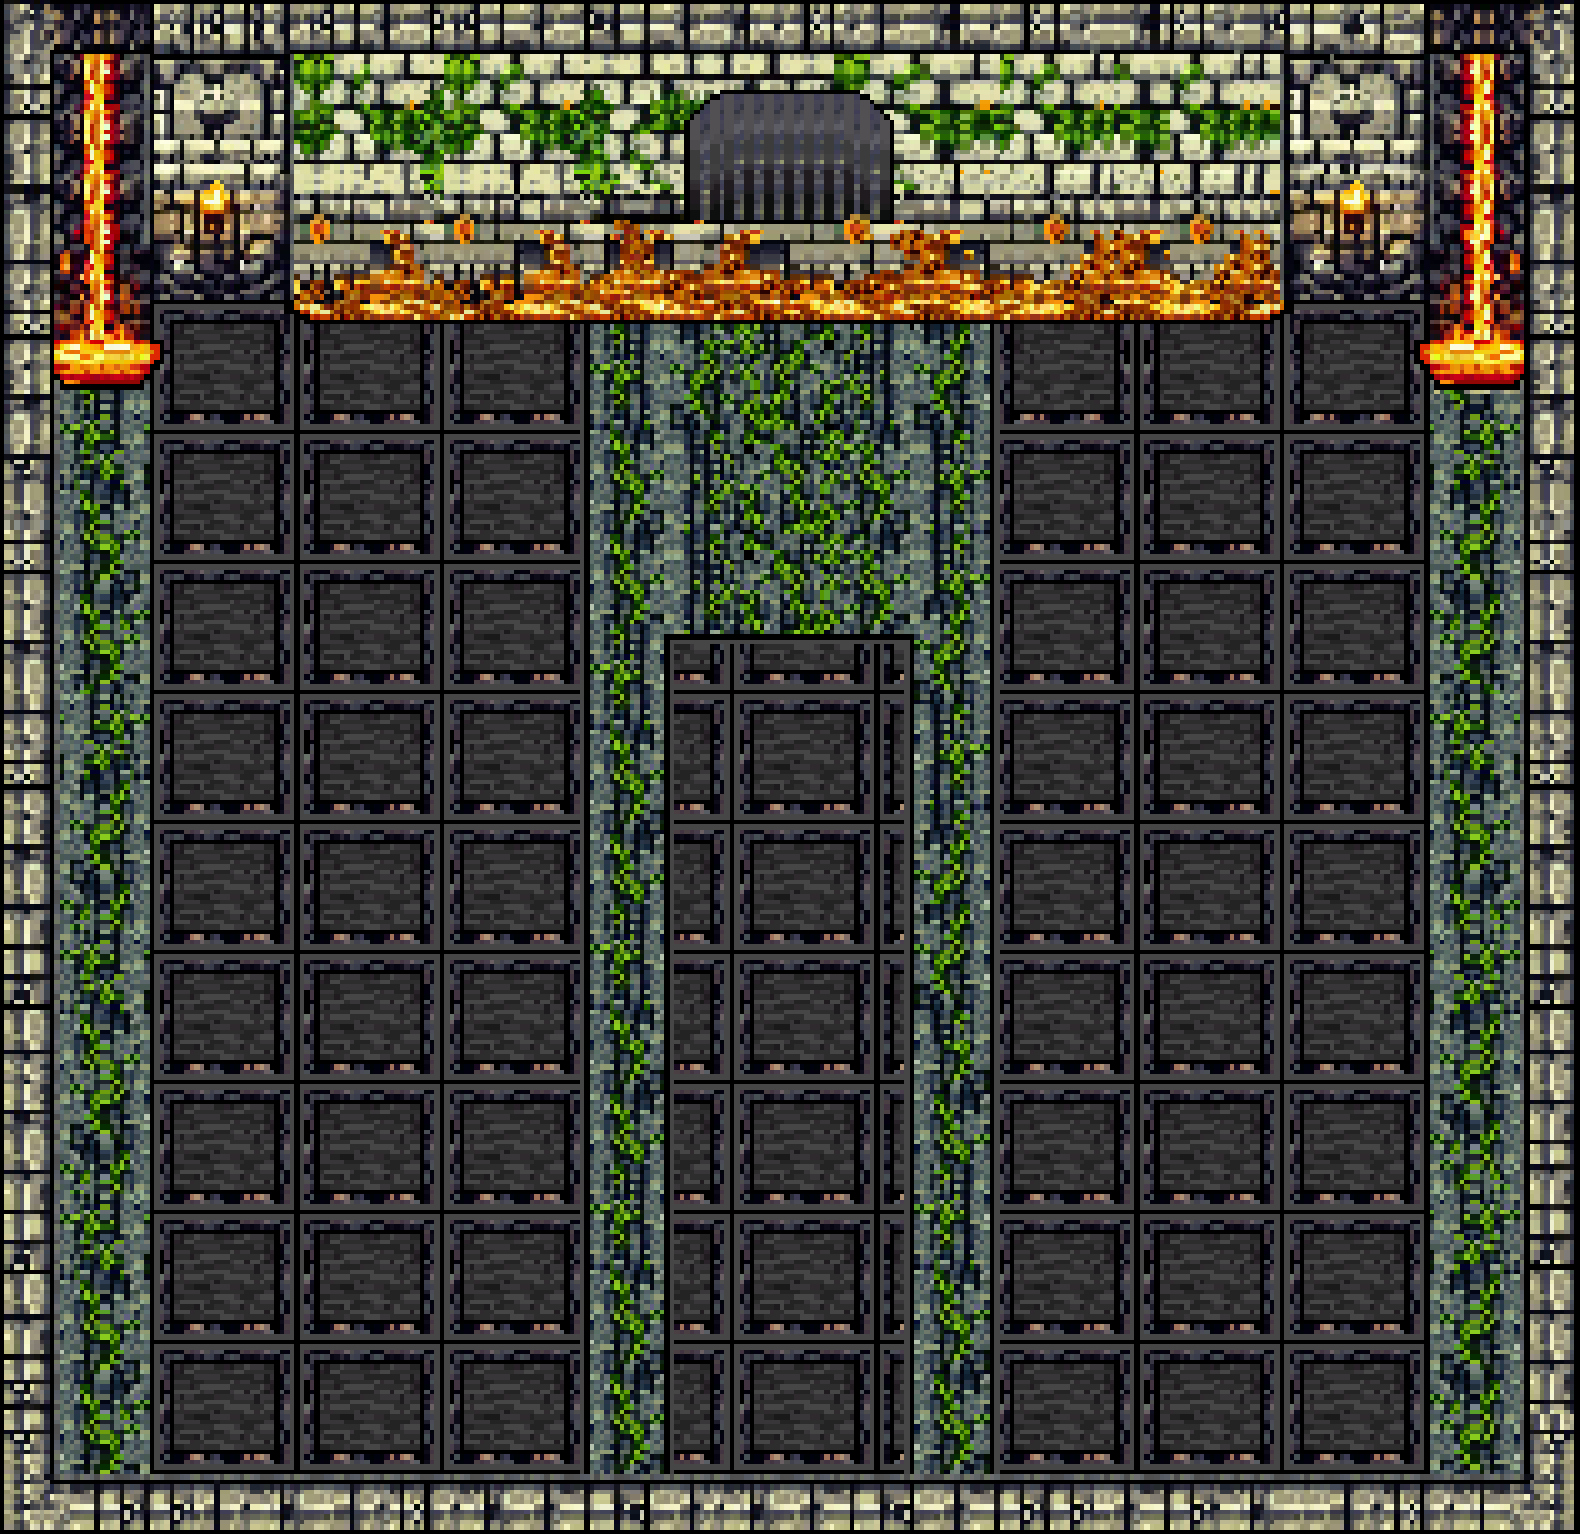
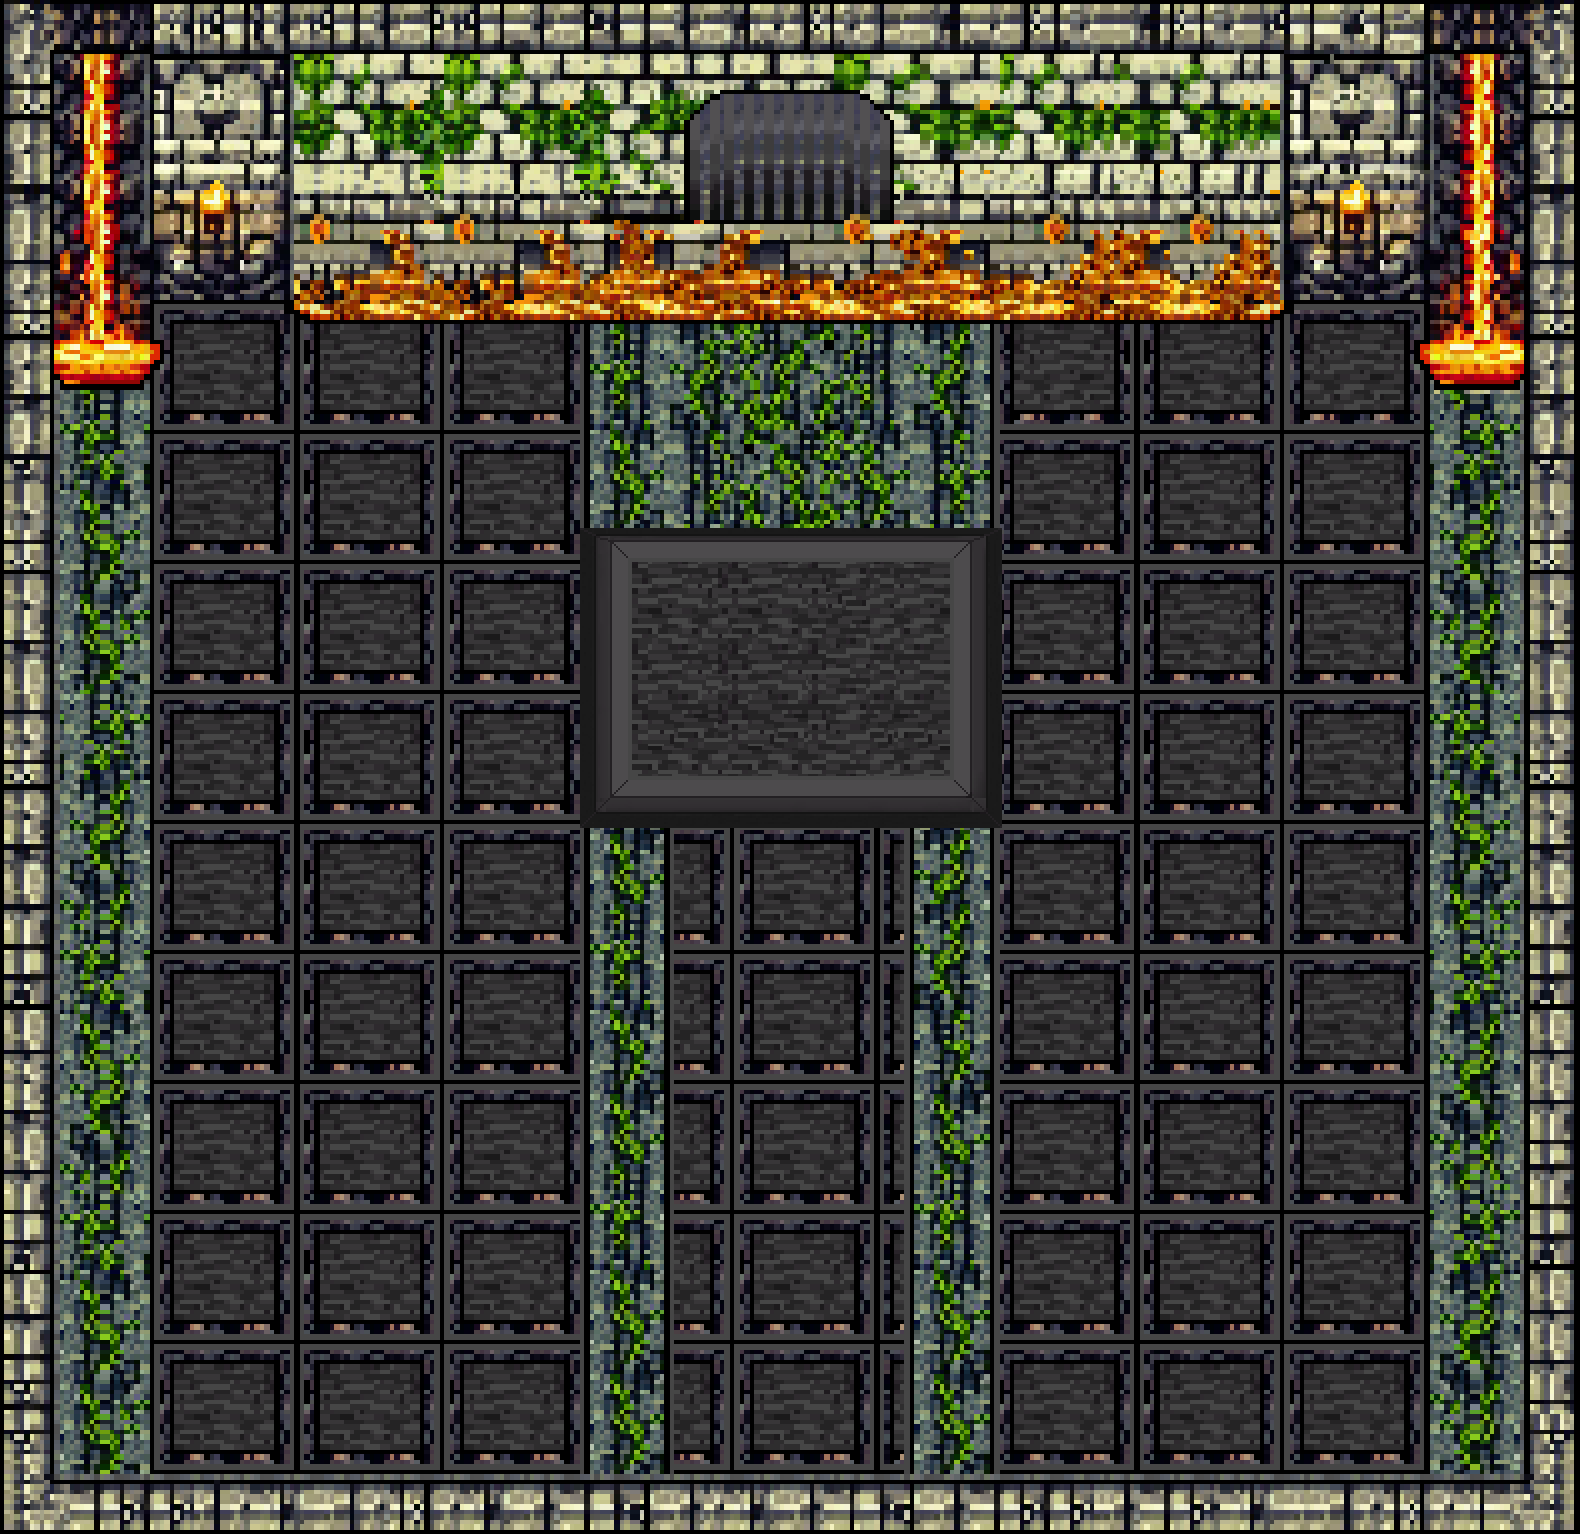
add mapPlataform

Changed region(s): [[0.3411, 0.337, 0.6513, 0.5515]]

diff --git a/State/States.cs b/State/States.cs
@@ -242,7 +242,7 @@ public class PlatformState : State
             var random = Random.Shared.Next(0, 3);
             platform = new("Platform", spawns[random].X, spawns[random].Y, 290, 260);
             if (GameEngine.Current.Player.X > Screen.PrimaryScreen.Bounds.Width / 2)
-                platform = new("Platform", spawns[random + 2].X, spawns[random + 2].Y, 290, 260);
+                
             GoToNext();
             return;
         }
